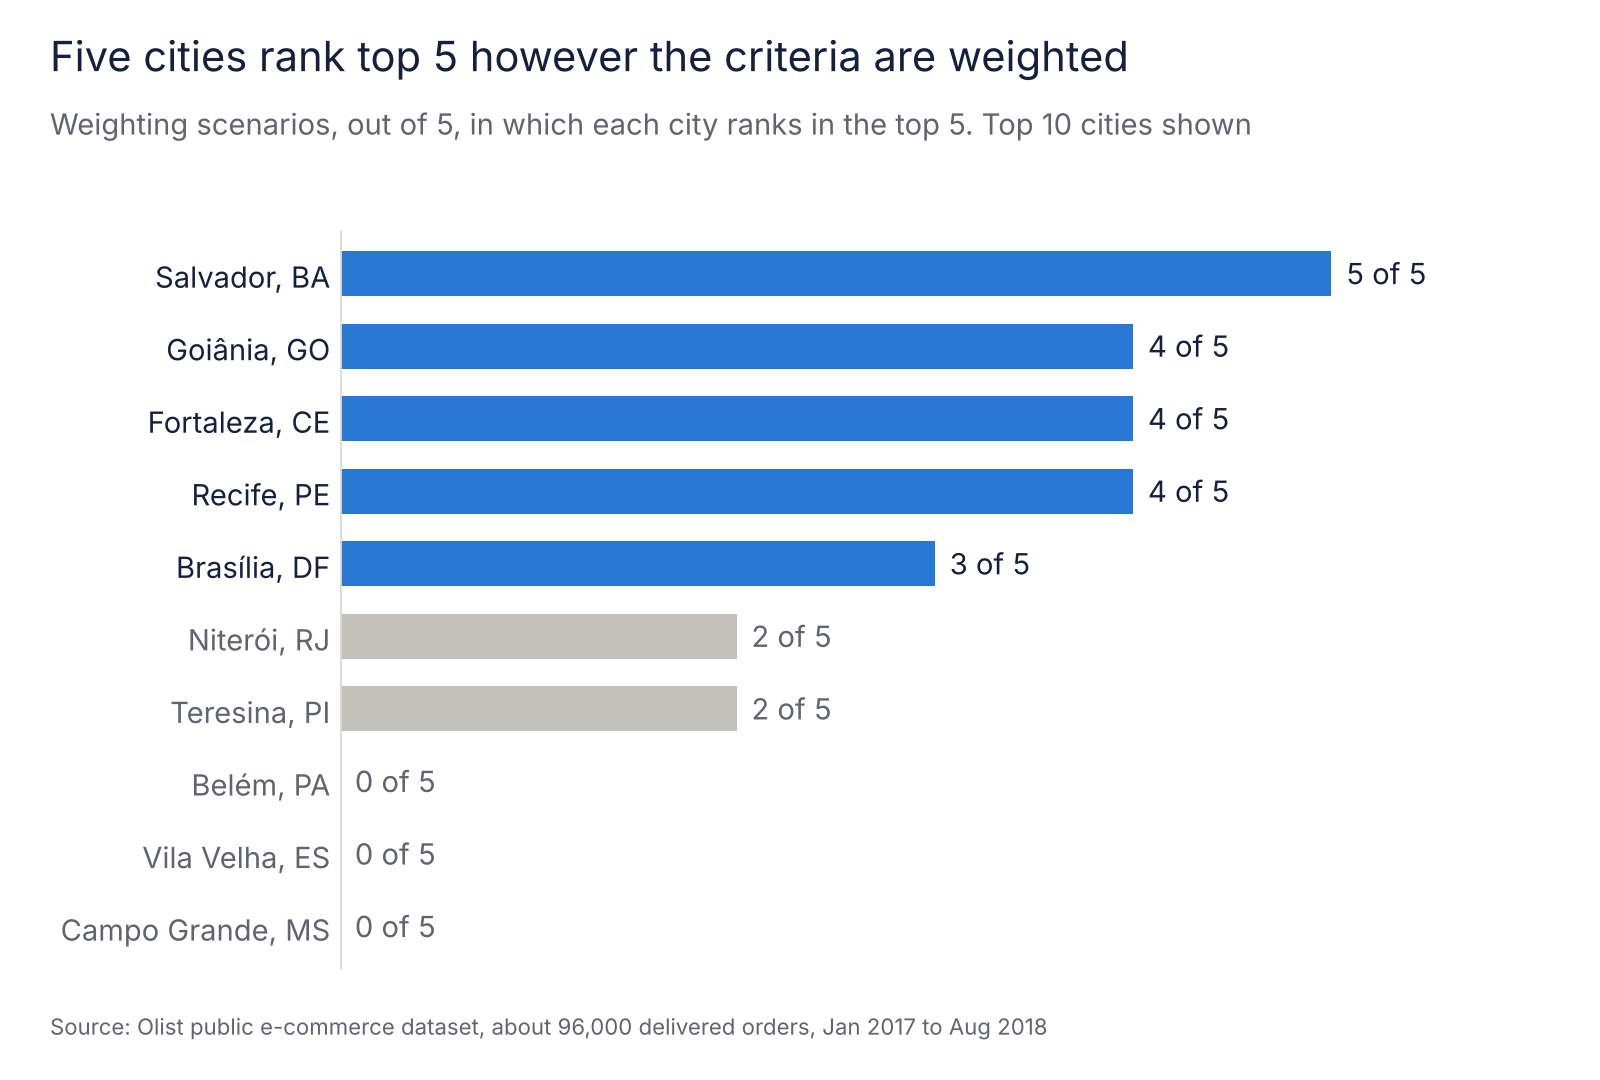
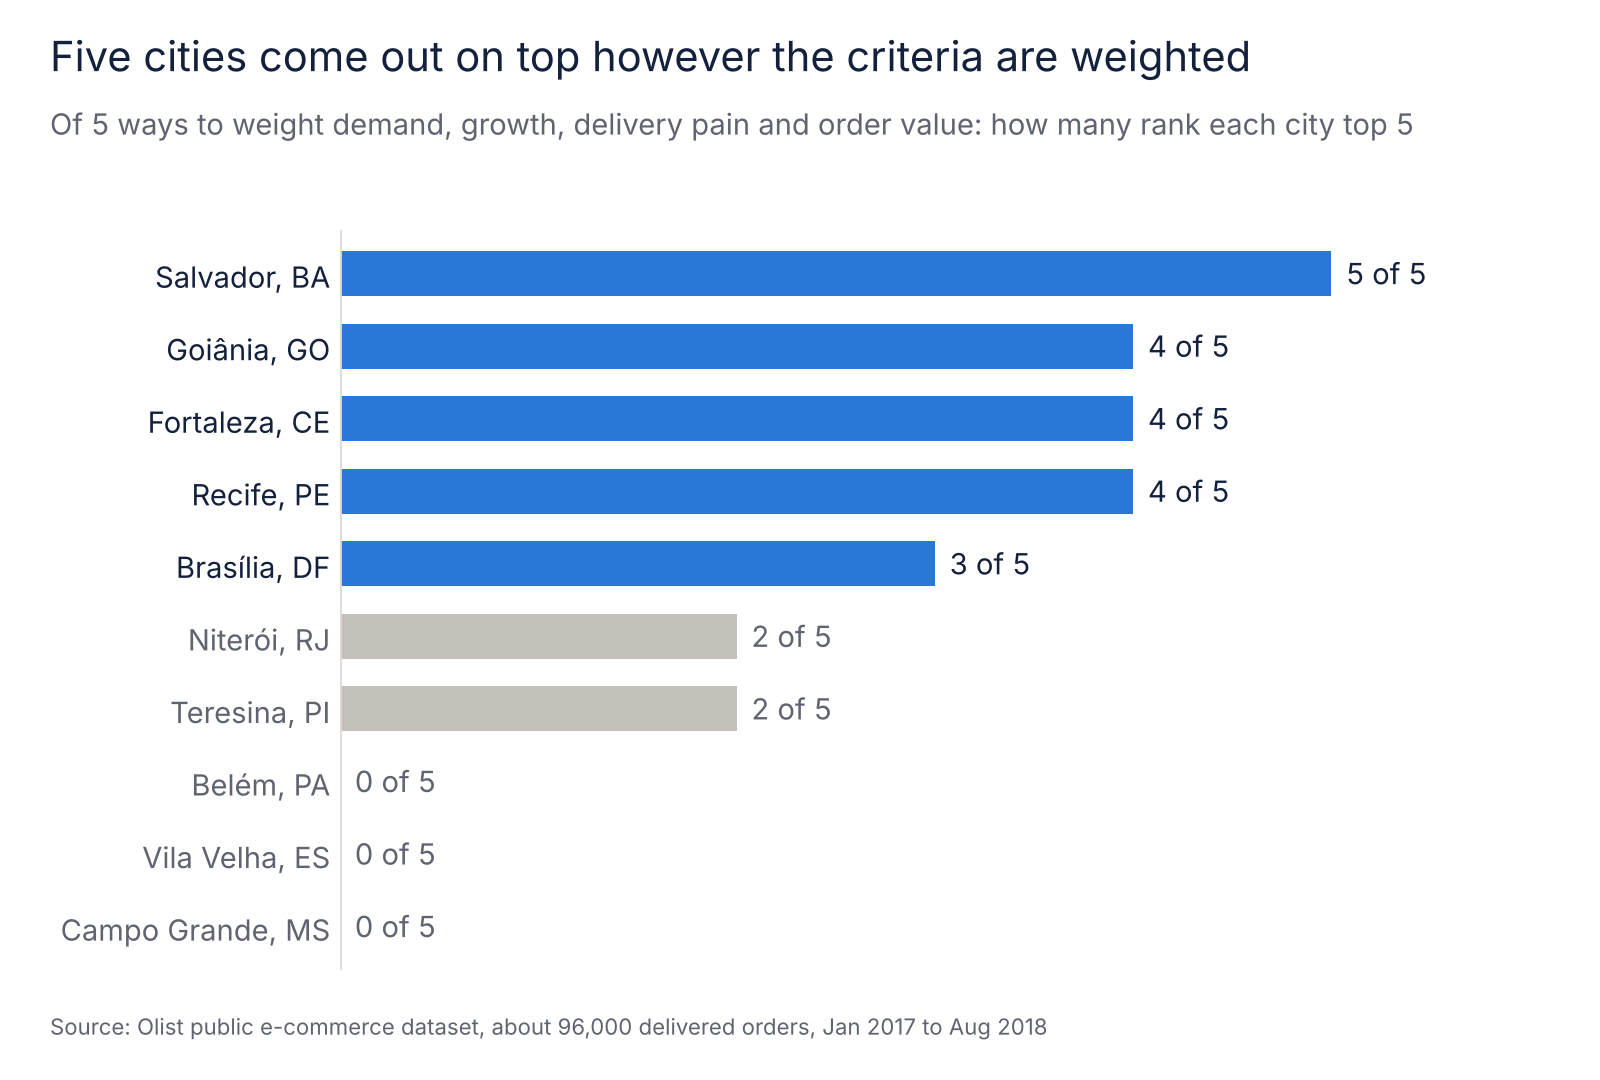
Charts a first-time reader can follow: plain headlines and explained labels

Changed region(s): [[0.0312, 0.0306, 0.875, 0.1222]]

diff --git a/scripts/brand_style.py b/scripts/brand_style.py
@@ -8,6 +8,7 @@ Colours are validated with the dataviz palette checks (lightness band, chroma, c
 import matplotlib
 import matplotlib.pyplot as plt
 import matplotlib.ticker
+import matplotlib.transforms
 
 INK = "#14213d"        # navy: headlines, values, key labels
 MUTED = "#5f6470"      # deck, axis labels, source line (5.9:1 on white)
@@ -123,7 +124,23 @@ def save(fig, path):
     plt.close(fig)
 
 
-def hbar(ax, labels, values, highlight, fmt, color, xmax=None):
+def _row_labels(ax, ys, labels, highlight, sublabels=None):
+    """Category labels at the left of the plot, with an optional smaller second line that explains them."""
+    ax.set_yticks(ys)
+    if not sublabels:
+        ax.set_yticklabels(labels)
+        for i, t in enumerate(ax.get_yticklabels()):
+            t.set_color(INK if i in highlight else MUTED)
+        return
+    ax.set_yticklabels([""] * len(ys))
+    tr = matplotlib.transforms.blended_transform_factory(ax.transAxes, ax.transData)
+    for i, (y, lab, sub) in enumerate(zip(ys, labels, sublabels)):
+        ax.text(-0.02, y + 0.13, lab, transform=tr, ha="right", va="center", fontsize=VALUE,
+                color=INK if i in highlight else MUTED)
+        ax.text(-0.02, y - 0.2, sub, transform=tr, ha="right", va="center", fontsize=8.5, color=MUTED)
+
+
+def hbar(ax, labels, values, highlight, fmt, color, xmax=None, sublabels=None):
     """Horizontal bars, first item at the top. highlight: set of indexes drawn in the project colour."""
     n = len(values)
     ys = list(range(n))[::-1]
@@ -135,14 +152,11 @@ def hbar(ax, labels, values, highlight, fmt, color, xmax=None):
         ax.barh(y, v, height=0.62, color=c, linewidth=0)
         small_neg = v < 0 and abs(v) < span * 0.05   # label a tiny negative on the right, like the rest
         ha, x = ("left", max(v, 0) + span * 0.015) if v >= 0 or small_neg else ("right", v - span * 0.015)
-        ax.text(x, y, fmt(v), va="center", ha=ha, fontsize=VALUE, color=INK if i in highlight else MUTED)
-    ax.set_yticks(ys)
-    ax.set_yticklabels(labels)
-    for i, t in enumerate(ax.get_yticklabels()):
-        t.set_color(INK if i in highlight else MUTED)
+        ax.text(x, y, fmt[i] if isinstance(fmt, list) else fmt(v), va="center", ha=ha, fontsize=VALUE, color=INK if i in highlight else MUTED)
+    _row_labels(ax, ys, labels, highlight, sublabels)
     ax.set_ylim(-0.6, n - 0.4)
     big_neg = lo < -span * 0.05
-    ax.set_xlim(lo - span * 0.16 if big_neg else min(lo, 0), hi + span * 0.16)
+    ax.set_xlim(lo - span * 0.3 if big_neg else min(lo, 0), hi + span * 0.16)
     ax.set_xticks([])
     ax.axvline(0, color=HAIRLINE, linewidth=1)
     return ax
@@ -155,7 +169,7 @@ def vbar(ax, labels, values, highlight, fmt, color, ymax=None):
     for x, v, i in zip(xs, values, range(len(values))):
         c = color if i in highlight else CONTEXT
         ax.bar(x, v, width=0.62, color=c, linewidth=0)
-        ax.text(x, v + hi * 0.02, fmt(v), ha="center", va="bottom", fontsize=VALUE,
+        ax.text(x, v + hi * 0.02, fmt[i] if isinstance(fmt, list) else fmt(v), ha="center", va="bottom", fontsize=VALUE,
                 color=INK if i in highlight else MUTED)
     ax.set_xticks(list(xs))
     ax.set_xticklabels(labels)
@@ -167,7 +181,7 @@ def vbar(ax, labels, values, highlight, fmt, color, ymax=None):
     return ax
 
 
-def dotrange(ax, labels, est, lo, hi, highlight, fmt, color, xlim=None, zero=True):
+def dotrange(ax, labels, est, lo, hi, highlight, fmt, color, xlim=None, zero=True, sublabels=None):
     """Estimate with its interval: a dot on a range line, first item at the top."""
     n = len(est)
     ys = list(range(n))[::-1]
@@ -177,10 +191,7 @@ def dotrange(ax, labels, est, lo, hi, highlight, fmt, color, xlim=None, zero=Tru
         ax.scatter([e], [y], s=80, color=c, zorder=3, linewidths=0)
         ax.text(e, y + 0.26, fmt(e), ha="center", va="bottom", fontsize=VALUE,
                 color=INK if i in highlight else MUTED)
-    ax.set_yticks(ys)
-    ax.set_yticklabels(labels)
-    for i, t in enumerate(ax.get_yticklabels()):
-        t.set_color(INK if i in highlight else MUTED)
+    _row_labels(ax, ys, labels, highlight, sublabels)
     ax.set_ylim(-0.6, n - 0.2)
     if xlim:
         ax.set_xlim(*xlim)

diff --git a/scripts/make_charts.py b/scripts/make_charts.py
@@ -51,8 +51,8 @@ w1 = set(pd.read_csv(RES / "launch_waves.csv").query("launch_wave.str.startswith
 fig, ax = b.chart(height=5.4, label_in=1.45)
 b.hbar(ax, r.city.map(pretty).tolist(), r.scenarios_in_top5.tolist(), {i for i, c in enumerate(r.city) if c in w1},
        lambda v: f"{v:.0f} of 5", HIGHLIGHT, xmax=5)
-b.titles(fig, "Five cities rank top 5 however the criteria are weighted",
-         "Weighting scenarios, out of 5, in which each city ranks in the top 5. Top 10 cities shown")
+b.titles(fig, "Five cities come out on top however the criteria are weighted",
+         "Of 5 ways to weight demand, growth, delivery pain and order value: how many rank each city top 5")
 b.credit(fig, SRC)
 b.save(fig, OUT / "01_launch_ranking.png")
 

diff --git a/README.md b/README.md
@@ -35,7 +35,7 @@ The full 15-city sequence, with launch waves and launch mode (standalone or exte
 
 ## Charts
 
-![Five cities rank top 5 however the criteria are weighted](charts/01_launch_ranking.png)
+![Five cities come out on top however the criteria are weighted](charts/01_launch_ranking.png)
 
 The top five are not just the highest scores. They stay on top when the weights change, while the next-best cities (Niteroi, Teresina) only make the top 5 in two of five scenarios.
 
